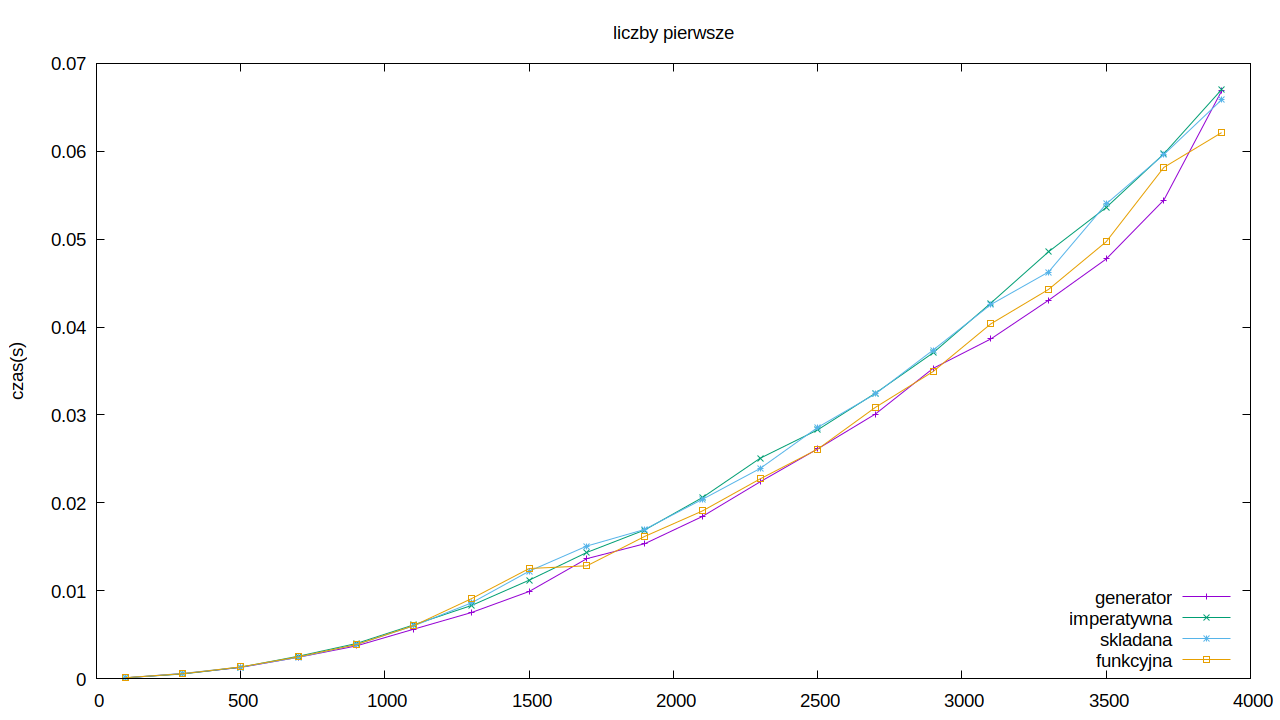
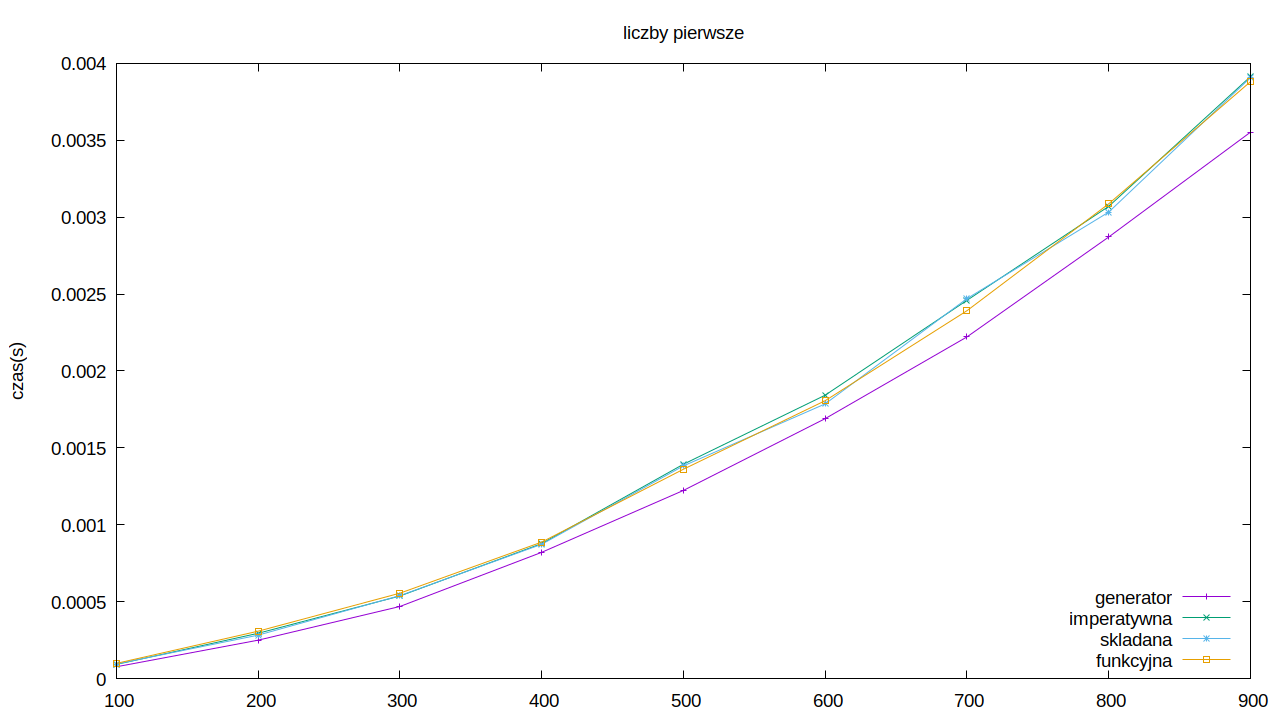
pythonik

diff --git a/python/lista5/zad1.py b/python/lista5/zad1.py
@@ -1,5 +1,5 @@
 import timeit
-import subprocess as sub
+import subprocess
 
 
 def czy_pierwsza(n):
@@ -21,6 +21,11 @@ def pierwsze():
             i += 2
 
 
+def pierwsze_generator(n):
+    p = pierwsze()
+    return [p.__next__() for _ in range(1, n+1)]
+
+
 def pierwsze_imperatywna(n):
     pierwsze = []
     for i in range(2, n+1):
@@ -37,51 +42,24 @@ def pierwsze_funkcyjna(n):
     return list(filter(lambda x: czy_pierwsza(x), range(2, n+1)))
 
 
-def pierwsze_generator(n):
-    p = pierwsze()
-    return [p.__next__() for _ in range(1, n+1)]
-
-
-print(timeit.Timer('pierwsze_imperatywna(50)',
-                   globals=globals()).timeit(50))
-print(timeit.Timer('pierwsze_skladana(50)',
-                   globals=globals()).timeit(50))
-print(timeit.Timer('pierwsze_funkcyjna(50)',
-                   globals=globals()).timeit(50))
-print(timeit.Timer('pierwsze_generator(15)',
-                   globals=globals()).timeit(50))
-
-
 def gnuplot(punkty):
     def maxy_dla_generatora():
         return [len(pierwsze_skladana(n)) for n in punkty]
 
-    def timer_imp(n):
-        return str(timeit.Timer(f'pierwsze_imperatywna({n})',
-                                globals=globals()).timeit(1))
-
-    def timer_fun(n):
-        return str(timeit.Timer(f'pierwsze_funkcyjna({n})',
-                                globals=globals()).timeit(1))
-
-    def timer_skl(n):
-        return str(timeit.Timer(f'pierwsze_skladana({n})',
-                                globals=globals()).timeit(1))
-
-    def timer_gen(n):
-        return str(timeit.Timer(f'pierwsze_generator({n})',
-                                globals=globals()).timeit(1))
+    def timer(n, fun):
+        return str(timeit.Timer(f'{fun}({n})',
+                                globals=globals()).timeit(10) / 10)
     gen = maxy_dla_generatora()
     dat = open("plot.dat", "w")
     dat.write("#\tX\tgenerator\timperatywna\tskladana\tfunkcyjna\n")
     for n in range(0, len(punkty)):
         dat.write(
-            f'{punkty[n]}\t{timer_gen(gen[n])}\t{timer_imp(punkty[n])}\t{timer_skl(punkty[n])}\t{timer_fun(punkty[n])}\n')
+            f'{punkty[n]}\t{timer(gen[n], "pierwsze_generator")}\t{timer(punkty[n], "pierwsze_imperatywna")}\t{timer(punkty[n], "pierwsze_skladana")}\t{timer(punkty[n], "pierwsze_funkcyjna")}\n')
     dat.close()
     file_optput = open('plot.png', 'w+')
-    sub.run(['gnuplot', 'plot.gp'], stdout=file_optput,
-            cwd=r'/home/szipi/uni/python/lista5/')
+    subprocess.run(['gnuplot', 'plot.gp'], stdout=file_optput,
+                   cwd=r'/home/szipi/uni/python/lista5/')
     file_optput.close()
 
 
-gnuplot([x for x in range(100, 4000, 200)])
+gnuplot([x for x in range(100, 1000, 100)])
